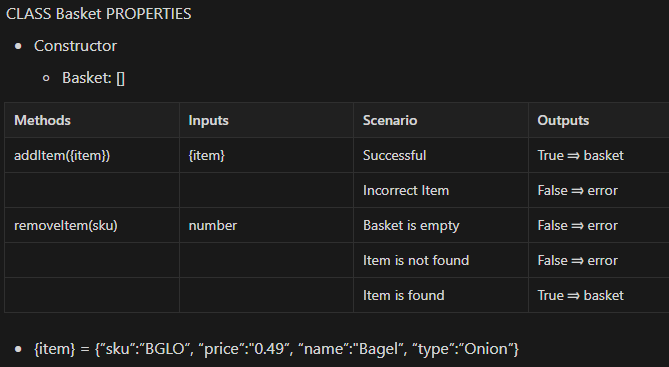
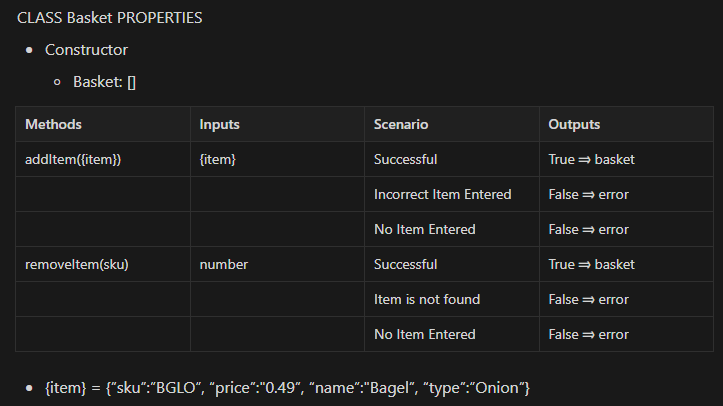
part 2 completed

diff --git a/spec/basket.spec.js b/spec/basket.spec.js
@@ -46,6 +46,40 @@ describe('Testing addItem', () => {
     // Check
     expect(response).toBe('No SKU Entered')
   })
+
+  it('Creating a basket with a custom size', () => {
+    // Setup
+    const basket = new Basket(8)
+    // Execution
+    const response = basket.size
+    // Check
+    expect(response).toBe(8)
+  })
+
+  it('Gives an error if size is < 0, non-integer or NaN. Creates basket with default size.', () => {
+    // Setup
+    const basketNonInteger = new Basket(8.5)
+    const basketNegative = new Basket(-1)
+    const basketNonNumber = new Basket('string')
+    // Execution
+    const responseNonInteger = basketNonInteger.size
+    const responseNegative = basketNegative.size
+    const responseNonNumber = basketNonNumber.size
+    // Check
+    expect(responseNonInteger).toBe(5)
+    expect(responseNegative).toBe(5)
+    expect(responseNonNumber).toBe(5)
+  })
+
+  it('Basket is full', () => {
+    // Setup
+    const basket = new Basket(1)
+    basket.addItem('BGLO')
+    // Execution
+    const response = basket.addItem('BGLP')
+    // Check
+    expect(response).toBe('Basket is full. Item was not added.')
+  })
 })
 
 describe('Testing removeItem', () => {

diff --git a/src/basket.js b/src/basket.js
@@ -1,17 +1,28 @@
 const inventory = require('../inventory.json').inventory
 
 class Basket {
-  constructor() {
+  constructor(size = 5) {
+    if (!Number.isInteger(size) || size < 1 || typeof size !== 'number') {
+      console.error(
+        'Invalid size entered, basket size has been set to default (5)'
+      )
+      size = 5
+    }
     this.basket = []
+    this.size = size
   }
 
   addItem(sku) {
     if (sku === undefined) {
+      console.error('No SKU Entered')
       return 'No SKU Entered'
+    } else if (this.basket.length === this.size) {
+      return 'Basket is full. Item was not added.'
     } else {
       const addedItem = inventory.find((item) => item.sku === sku)
       if (addedItem) {
         this.basket.push(addedItem)
+        return this.basket
       } else {
         return 'Chosen item not found'
       }

diff --git a/README.md b/README.md
@@ -12,7 +12,6 @@ In this challenge, you will transform User Stories into a Domain Model and test-
 
 A **User Story** describes one thing a program is expected to do, from the perspective of somebody using that program. When planning a program, the client's requirements will be decomposed into many User Stories. Much of a developer's life is spent translating User Stories into a functional system. In Object-Oriented Programming, these systems are made up of **Objects** and **Messages**. Objects describe the objects within the system, and Messages describe how those objects interact. We call these systems **Domain Models**.
 
-
 ## User Stories
 
 # Part 1
